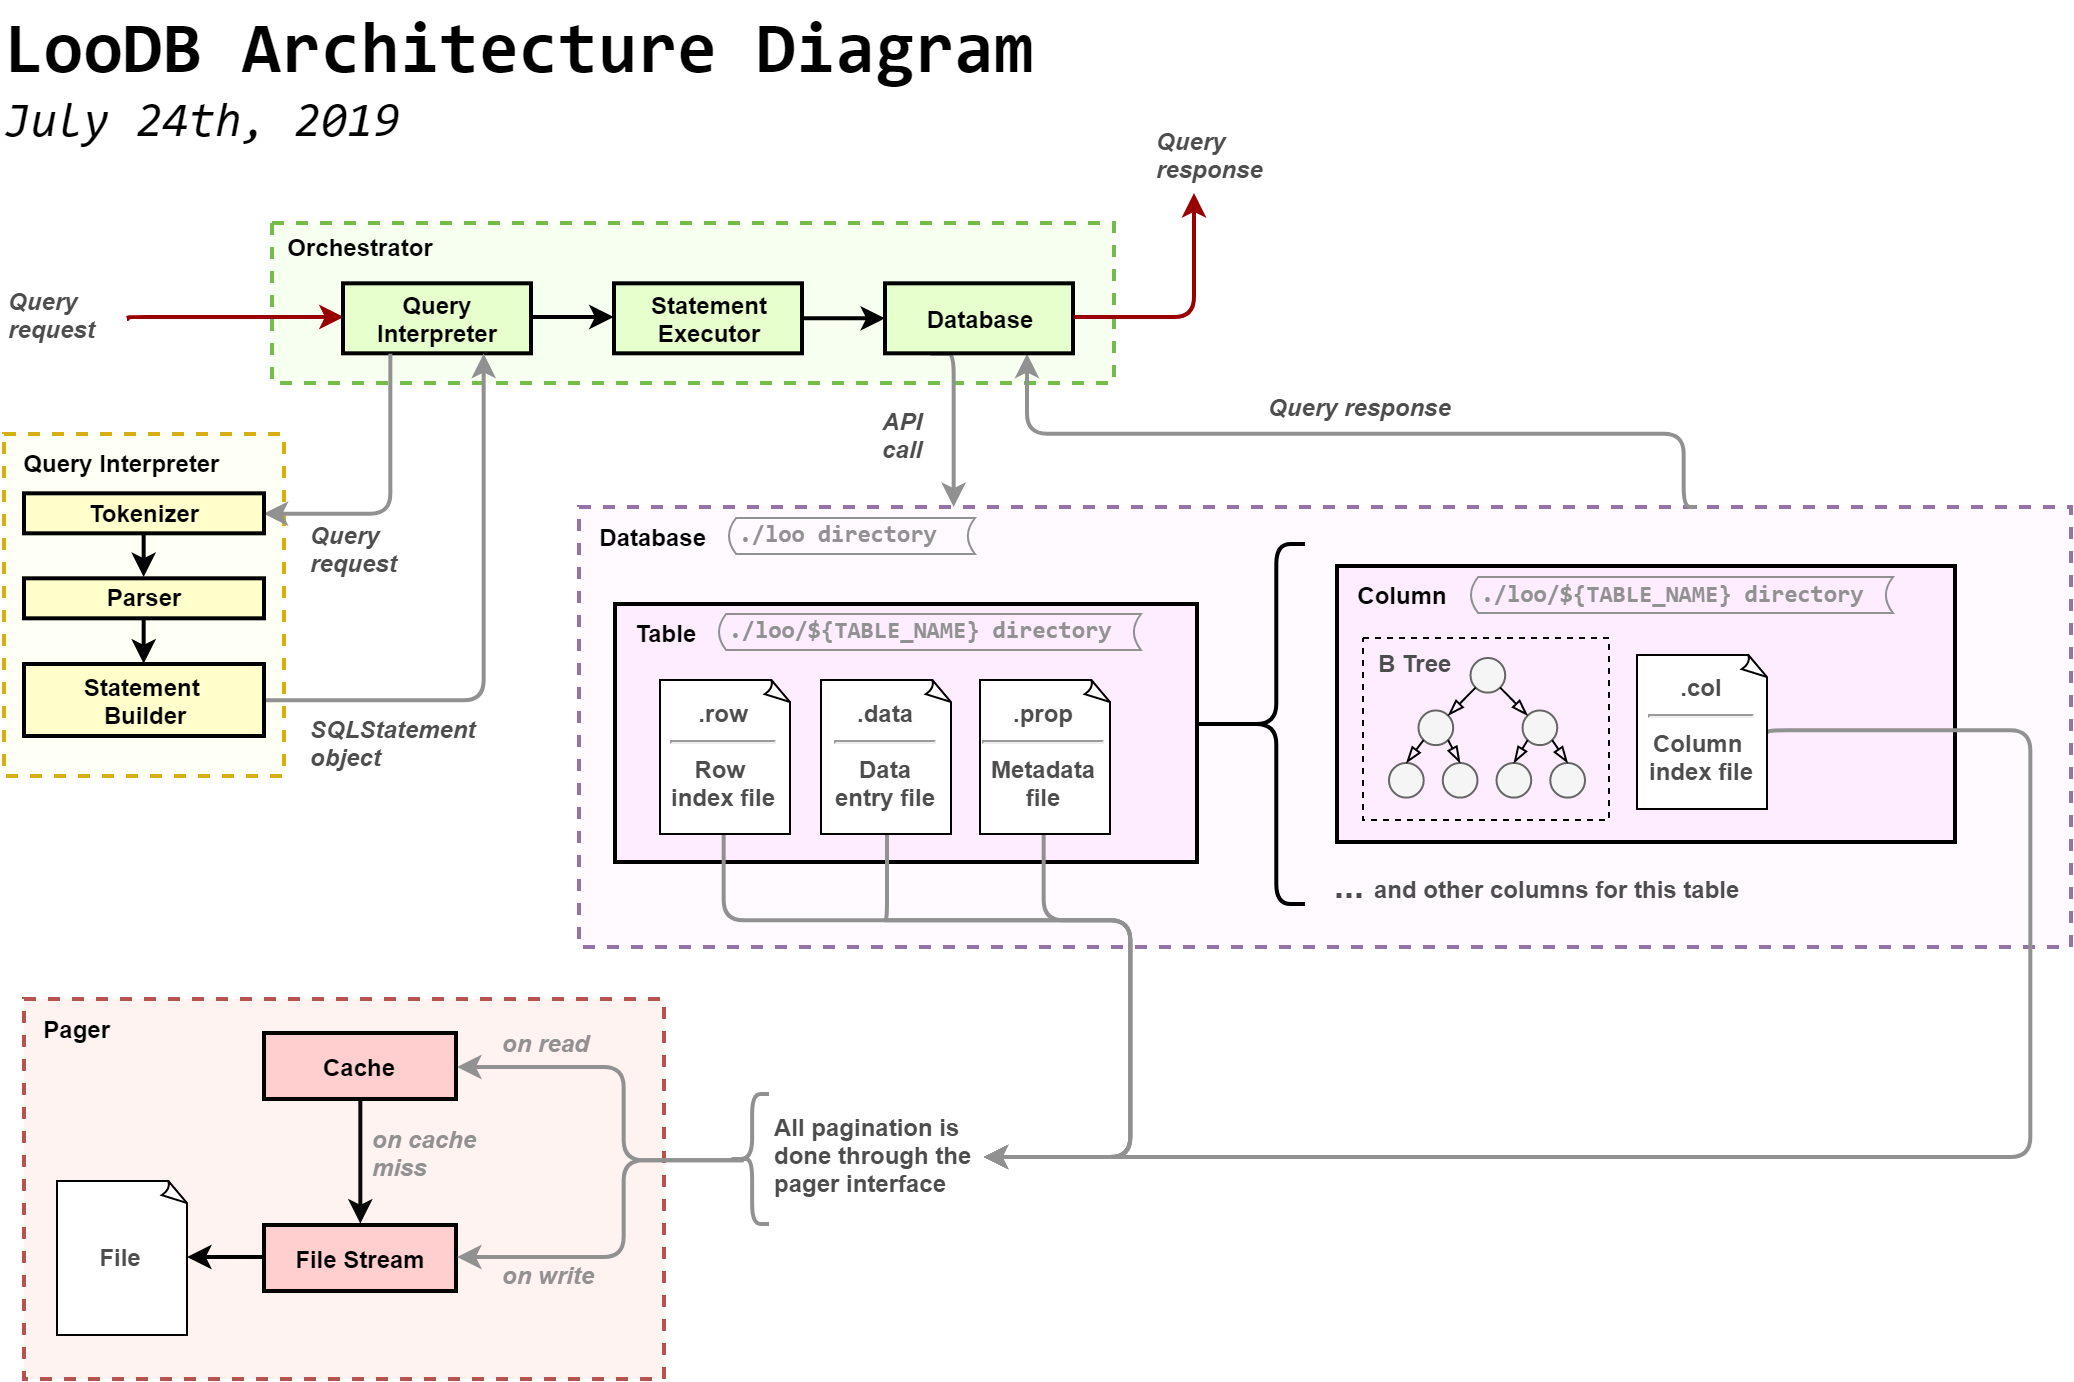
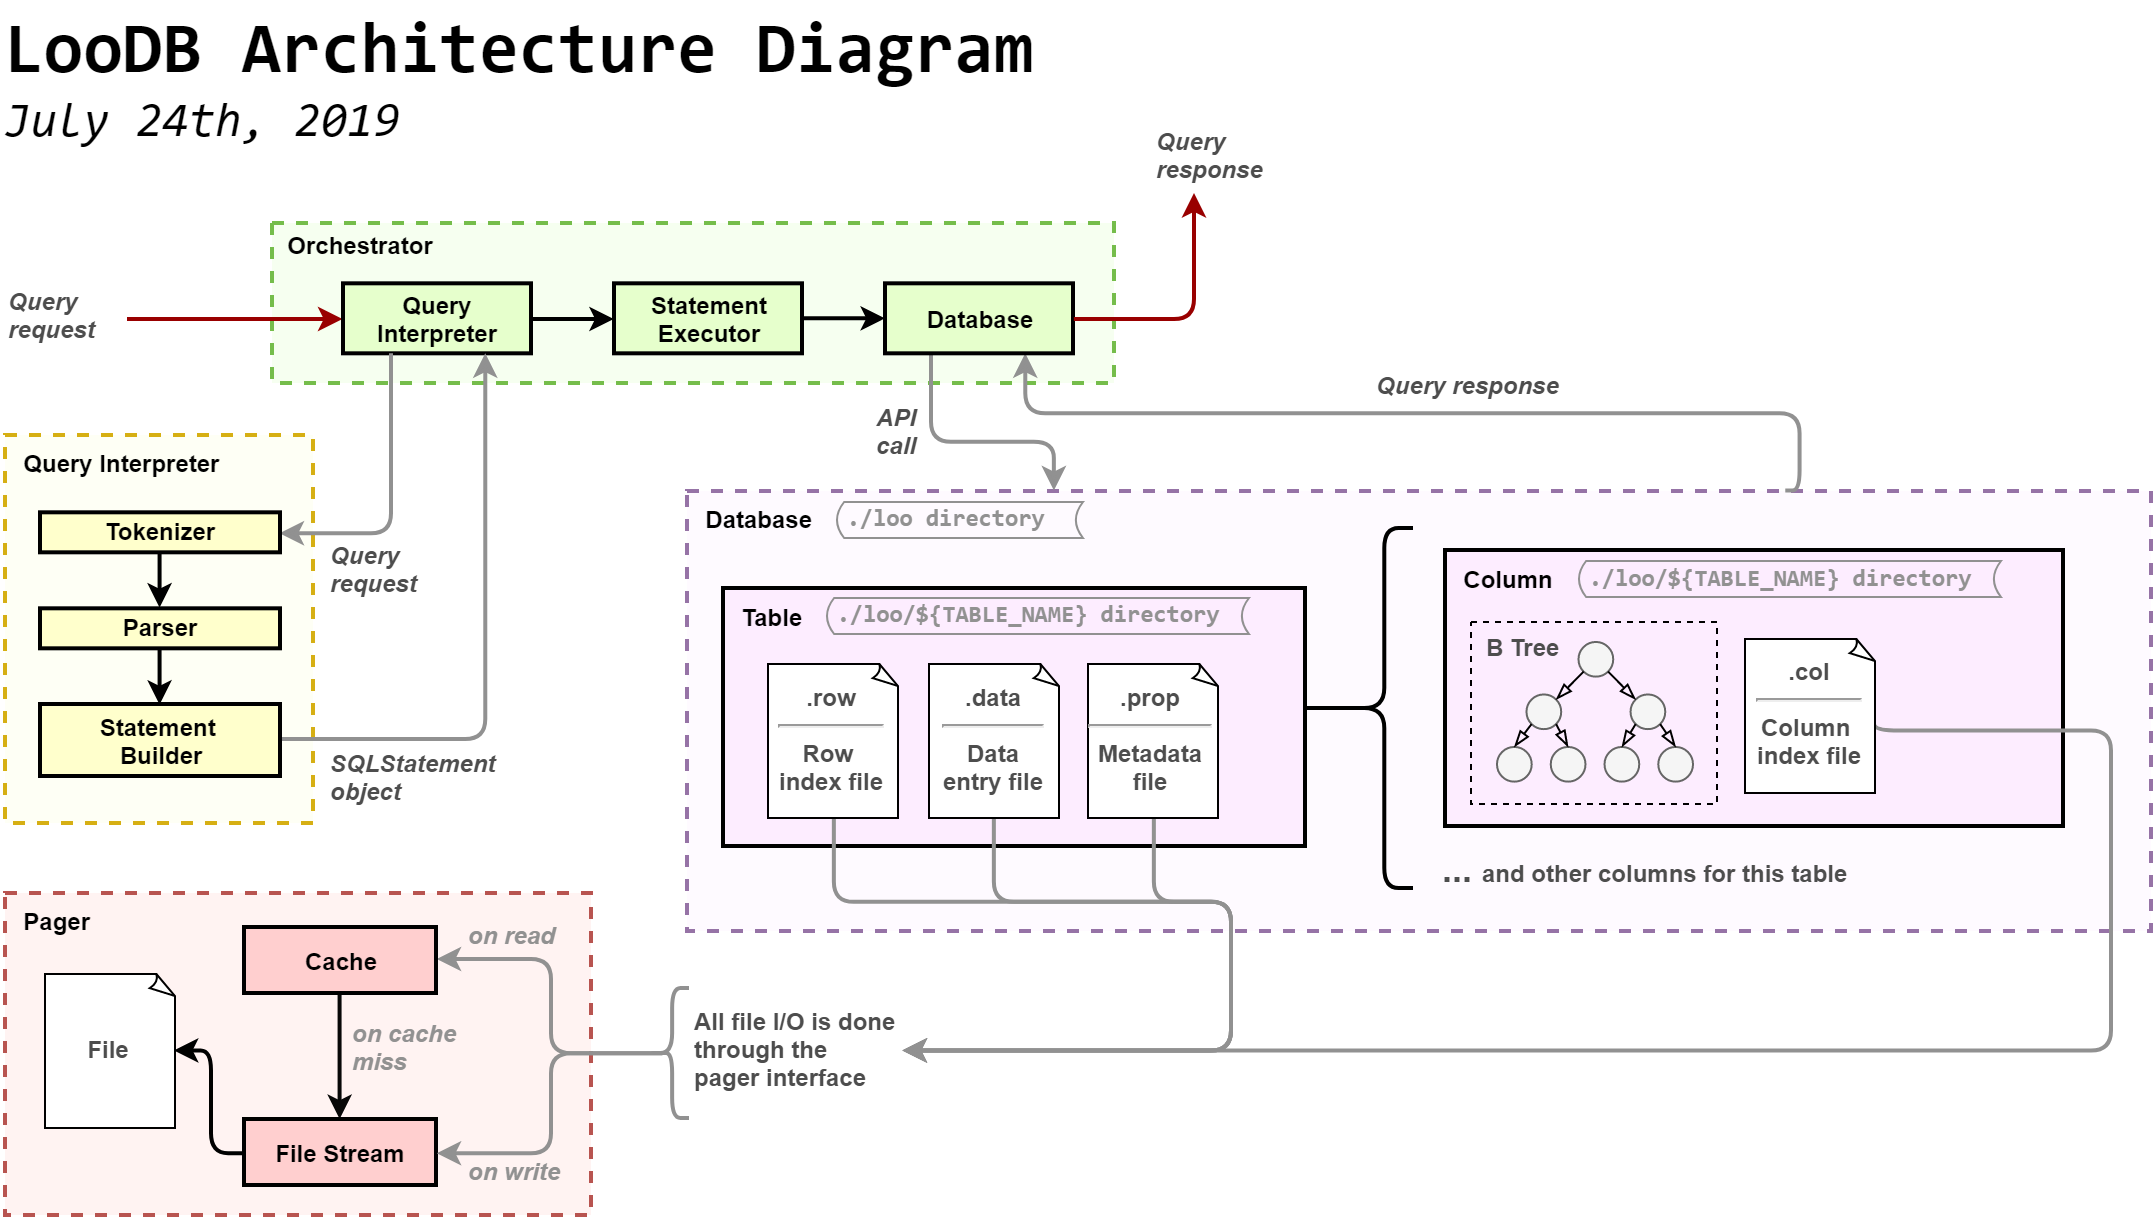
Updated architecture diagrams and fixed the statement tables

diff --git a/README.md b/README.md
@@ -2,7 +2,7 @@
 
 LooDB is a lightweight SQL database based on SQLite3. 
 
-![Architecture diagram](/assets/loodb_architecture_diagram_small.png "Architecture Diagram")
+![Architecture diagram](/assets/loodb_architecture_diagram.svg "Architecture Diagram")
 ----
 
 
@@ -13,10 +13,7 @@ LooDB features its own flavor of SQL, which can currently support queries as spe
 | Command     | **`create table`** |
 | ----------- | ------------------ |
 | Syntax      | `create table [table name] ( [col name] [type] [restriction], …);` |
-| Explanation | `[table name]` is the name of your table |
-|             | `[col]` name is the name of your column |
-|             | `[type]` is either `integer` or `text` | 
-|             | `[restriction]` is either `primary key` or `not null` |
+| Explanation | `[table name]` is the name of your table<br>`[col]` name is the name of your column<br>`[type]` is either `integer` or `text`<br>`[restriction]` is either `primary key` or `not null` |
 
 | Command     | **`drop table`** |
 | ----------- | ---------------- |
@@ -26,15 +23,12 @@ LooDB features its own flavor of SQL, which can currently support queries as spe
 | Command     | **`insert`** |
 | ----------- | ------------ |
 | Syntax      | `insert into [table name] values ([value], …);` |
-| Explanation | `[table name]` is the name of your table |
-|             | `[value]` is either a null, text, or integer type |
+| Explanation | `[table name]` is the name of your table<br>`[value]` is either a null, text, or integer type |
 
 | Command     | **`select`** |
 | ----------- | ------------ |
 | Syntax      | `select [cols] from [table name] where [wheres];` |
-| Explanation | `[cols]` is either a list of valid column names or “*” |
-|             | `[table name]` is the name of your table |
-|             | is an expression of logical equalities, e.g. `(a = 'hello' and (b = 5 or c = null))` |
+| Explanation | `[cols]` is either a list of valid column names or "*"<br>`[table name]` is the name of your table<br>is an expression of logical equalities, e.g. `(a = 'hello' and (b = 5 or c = null))` |
 
 There are currently some limitations to the parser, as it will not accept:
 - Negative integers
